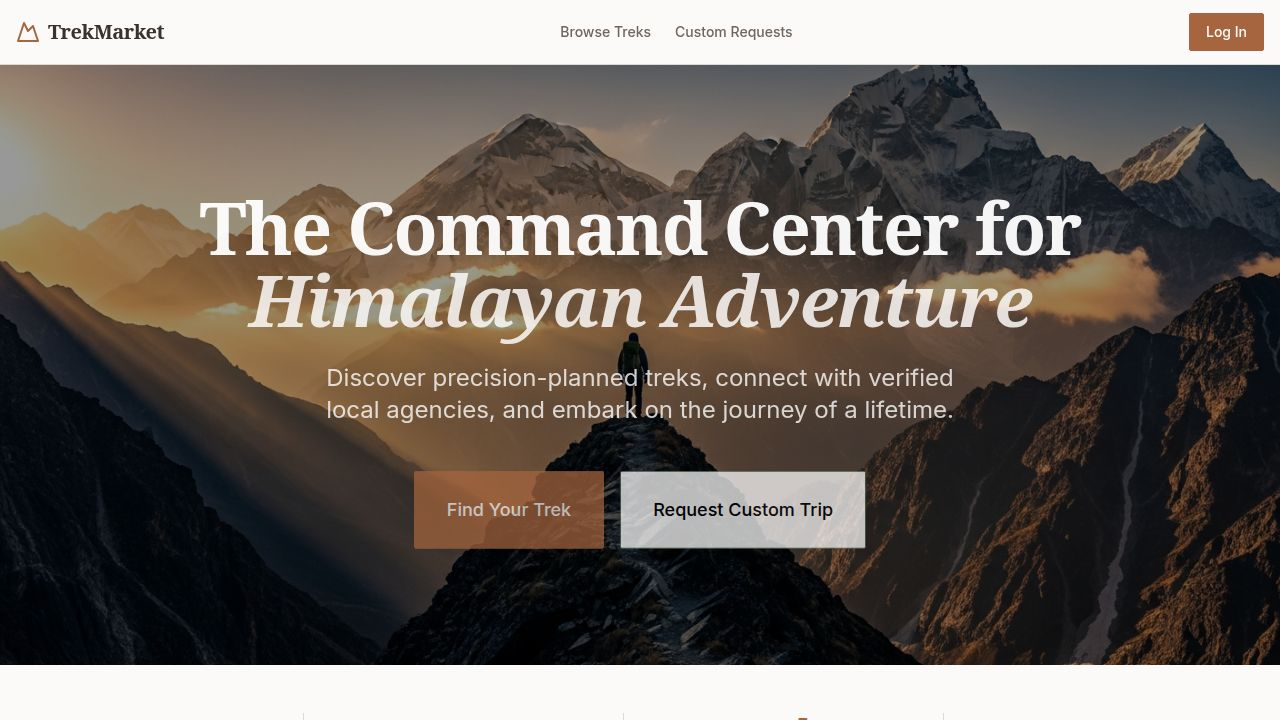
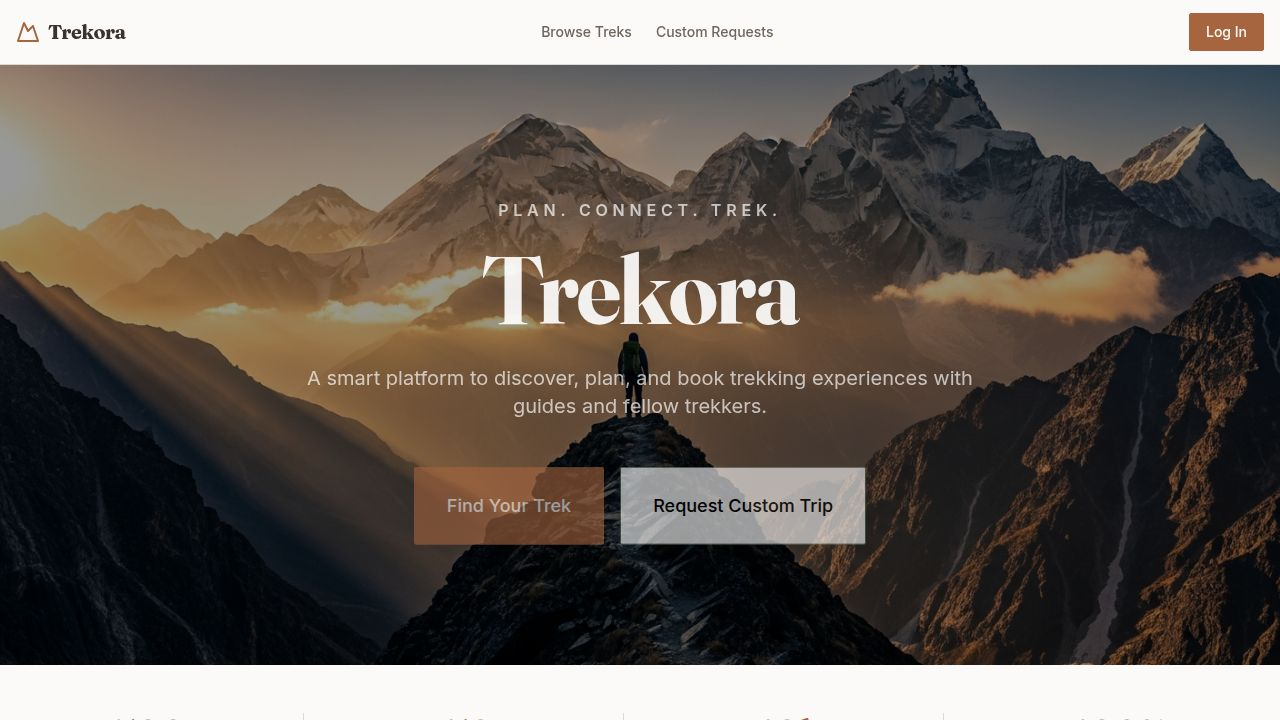
Include session cookies with all outgoing requests
Add `credentials: 'include'` to the fetch call in `lib/api-client-react/src/custom-fetch.ts` to enable session-based authentication.

Replit-Commit-Author: Agent
Replit-Commit-Session-Id: ca604e9c-c583-4459-91fa-bc6b5d6ed7e9
Replit-Commit-Checkpoint-Type: full_checkpoint
Replit-Commit-Event-Id: 812ee046-e7ed-496c-9ee6-c7f765a1ea8b
Replit-Commit-Screenshot-Url: https://storage.googleapis.com/screenshot-production-us-central1/2f9cae22-6bb5-445a-ae08-6efeff0f8548/ca604e9c-c583-4459-91fa-bc6b5d6ed7e9/PFUA9Za
Replit-Helium-Checkpoint-Created: true

diff --git a/lib/api-client-react/src/custom-fetch.ts b/lib/api-client-react/src/custom-fetch.ts
@@ -360,7 +360,8 @@ export async function customFetch<T = unknown>(
 
   const requestInfo = { method, url: resolveUrl(input) };
 
-  const response = await fetch(input, { ...init, method, headers });
+  // Include credentials (cookies) with every request for session-based auth
+  const response = await fetch(input, { ...init, method, headers, credentials: 'include' });
 
   if (!response.ok) {
     const errorData = await parseErrorBody(response, method);